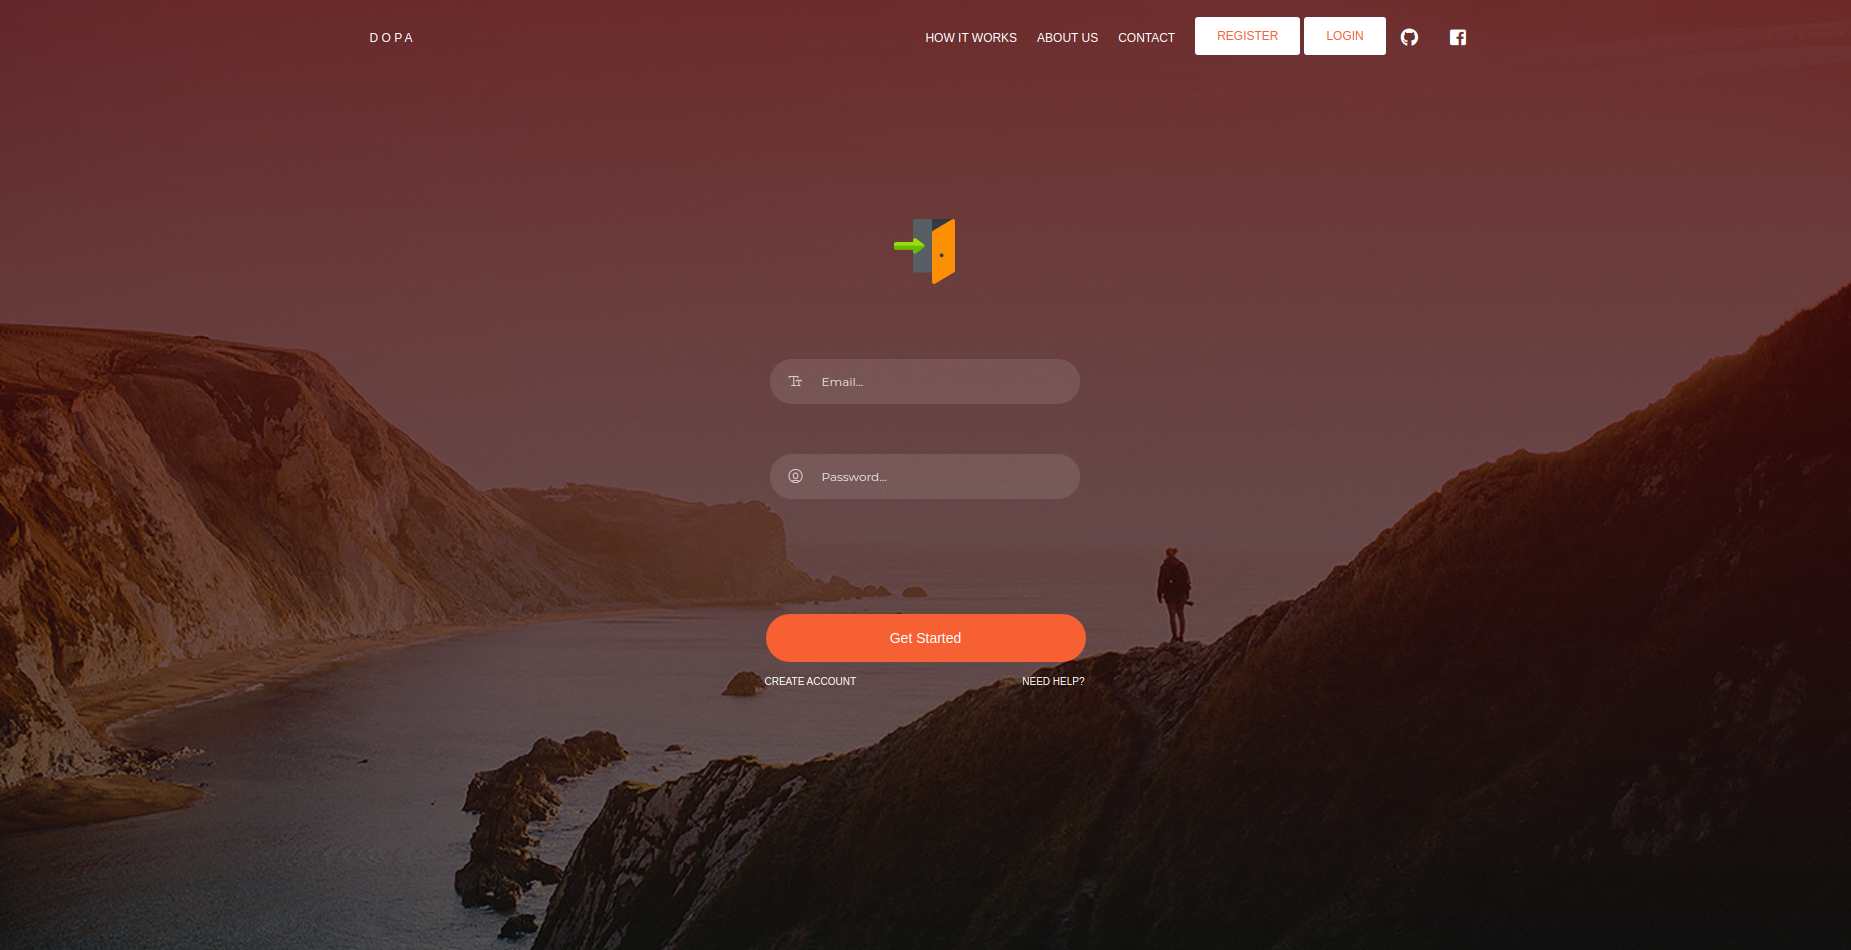
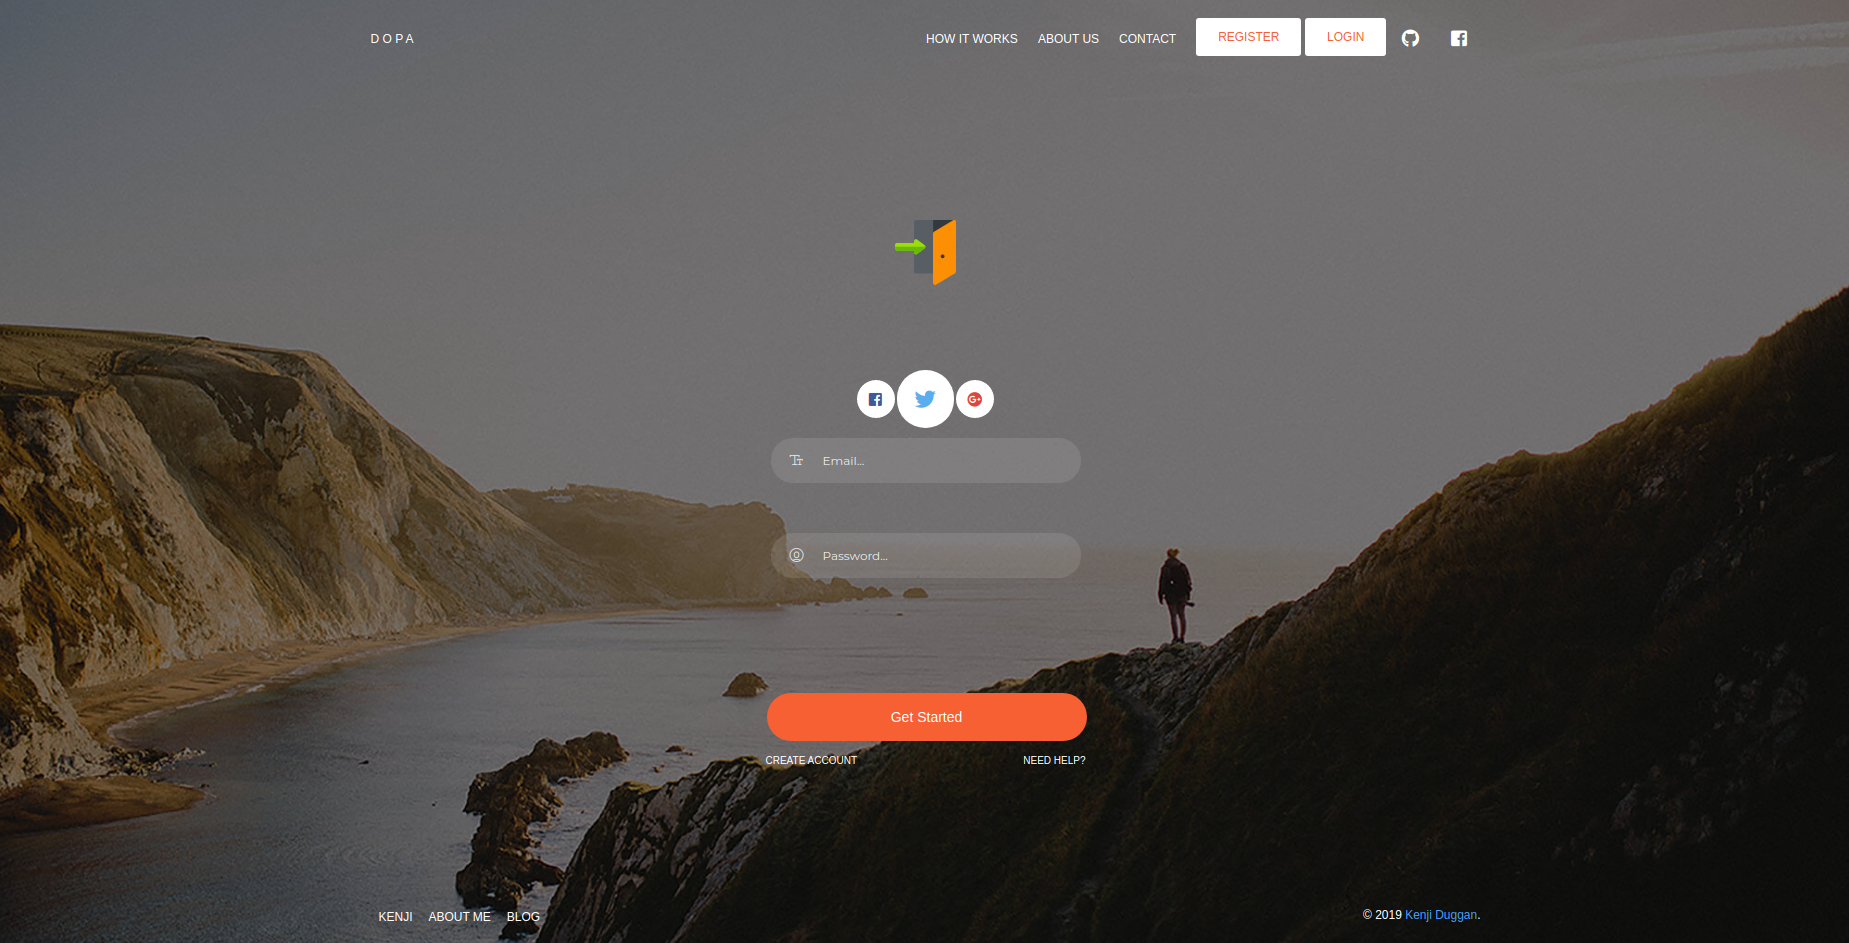
img

diff --git a/src/pages/Register.vue b/src/pages/Register.vue
@@ -11,6 +11,26 @@
             <div slot="header" class="logo-container">
               <img v-lazy="'img/united.svg'" alt="" />
             </div>
+            <div class="social-line">
+              <a
+                href="#pablo"
+                class="btn btn-neutral btn-facebook btn-icon btn-round"
+              >
+                <i class="fab fa-facebook-square"></i>
+              </a>
+              <a
+                href="#pablo"
+                class="btn btn-neutral btn-twitter btn-icon btn-lg btn-round"
+              >
+                <i class="fab fa-twitter"></i>
+              </a>
+              <a
+                href="#pablo"
+                class="btn btn-neutral btn-google btn-icon btn-round"
+              >
+                <i class="fab fa-google-plus"></i>
+              </a>
+            </div>
             <fg-input
               class="no-border input-lg"
               addon-left-icon="now-ui-icons users_circle-08"

diff --git a/src/pages/Login.vue b/src/pages/Login.vue
@@ -11,6 +11,26 @@
             <div slot="header" class="logo-container">
               <img v-lazy="'img/log-in.svg'" />
             </div>
+            <div class="social-line">
+              <a
+                href="#pablo"
+                class="btn btn-neutral btn-facebook btn-icon btn-round"
+              >
+                <i class="fab fa-facebook-square"></i>
+              </a>
+              <a
+                href="#pablo"
+                class="btn btn-neutral btn-twitter btn-icon btn-lg btn-round"
+              >
+                <i class="fab fa-twitter"></i>
+              </a>
+              <a
+                href="#pablo"
+                class="btn btn-neutral btn-google btn-icon btn-round"
+              >
+                <i class="fab fa-google-plus"></i>
+              </a>
+            </div>
             <fg-input
               class="no-border input-lg"
               addon-left-icon="now-ui-icons text_caps-small"
